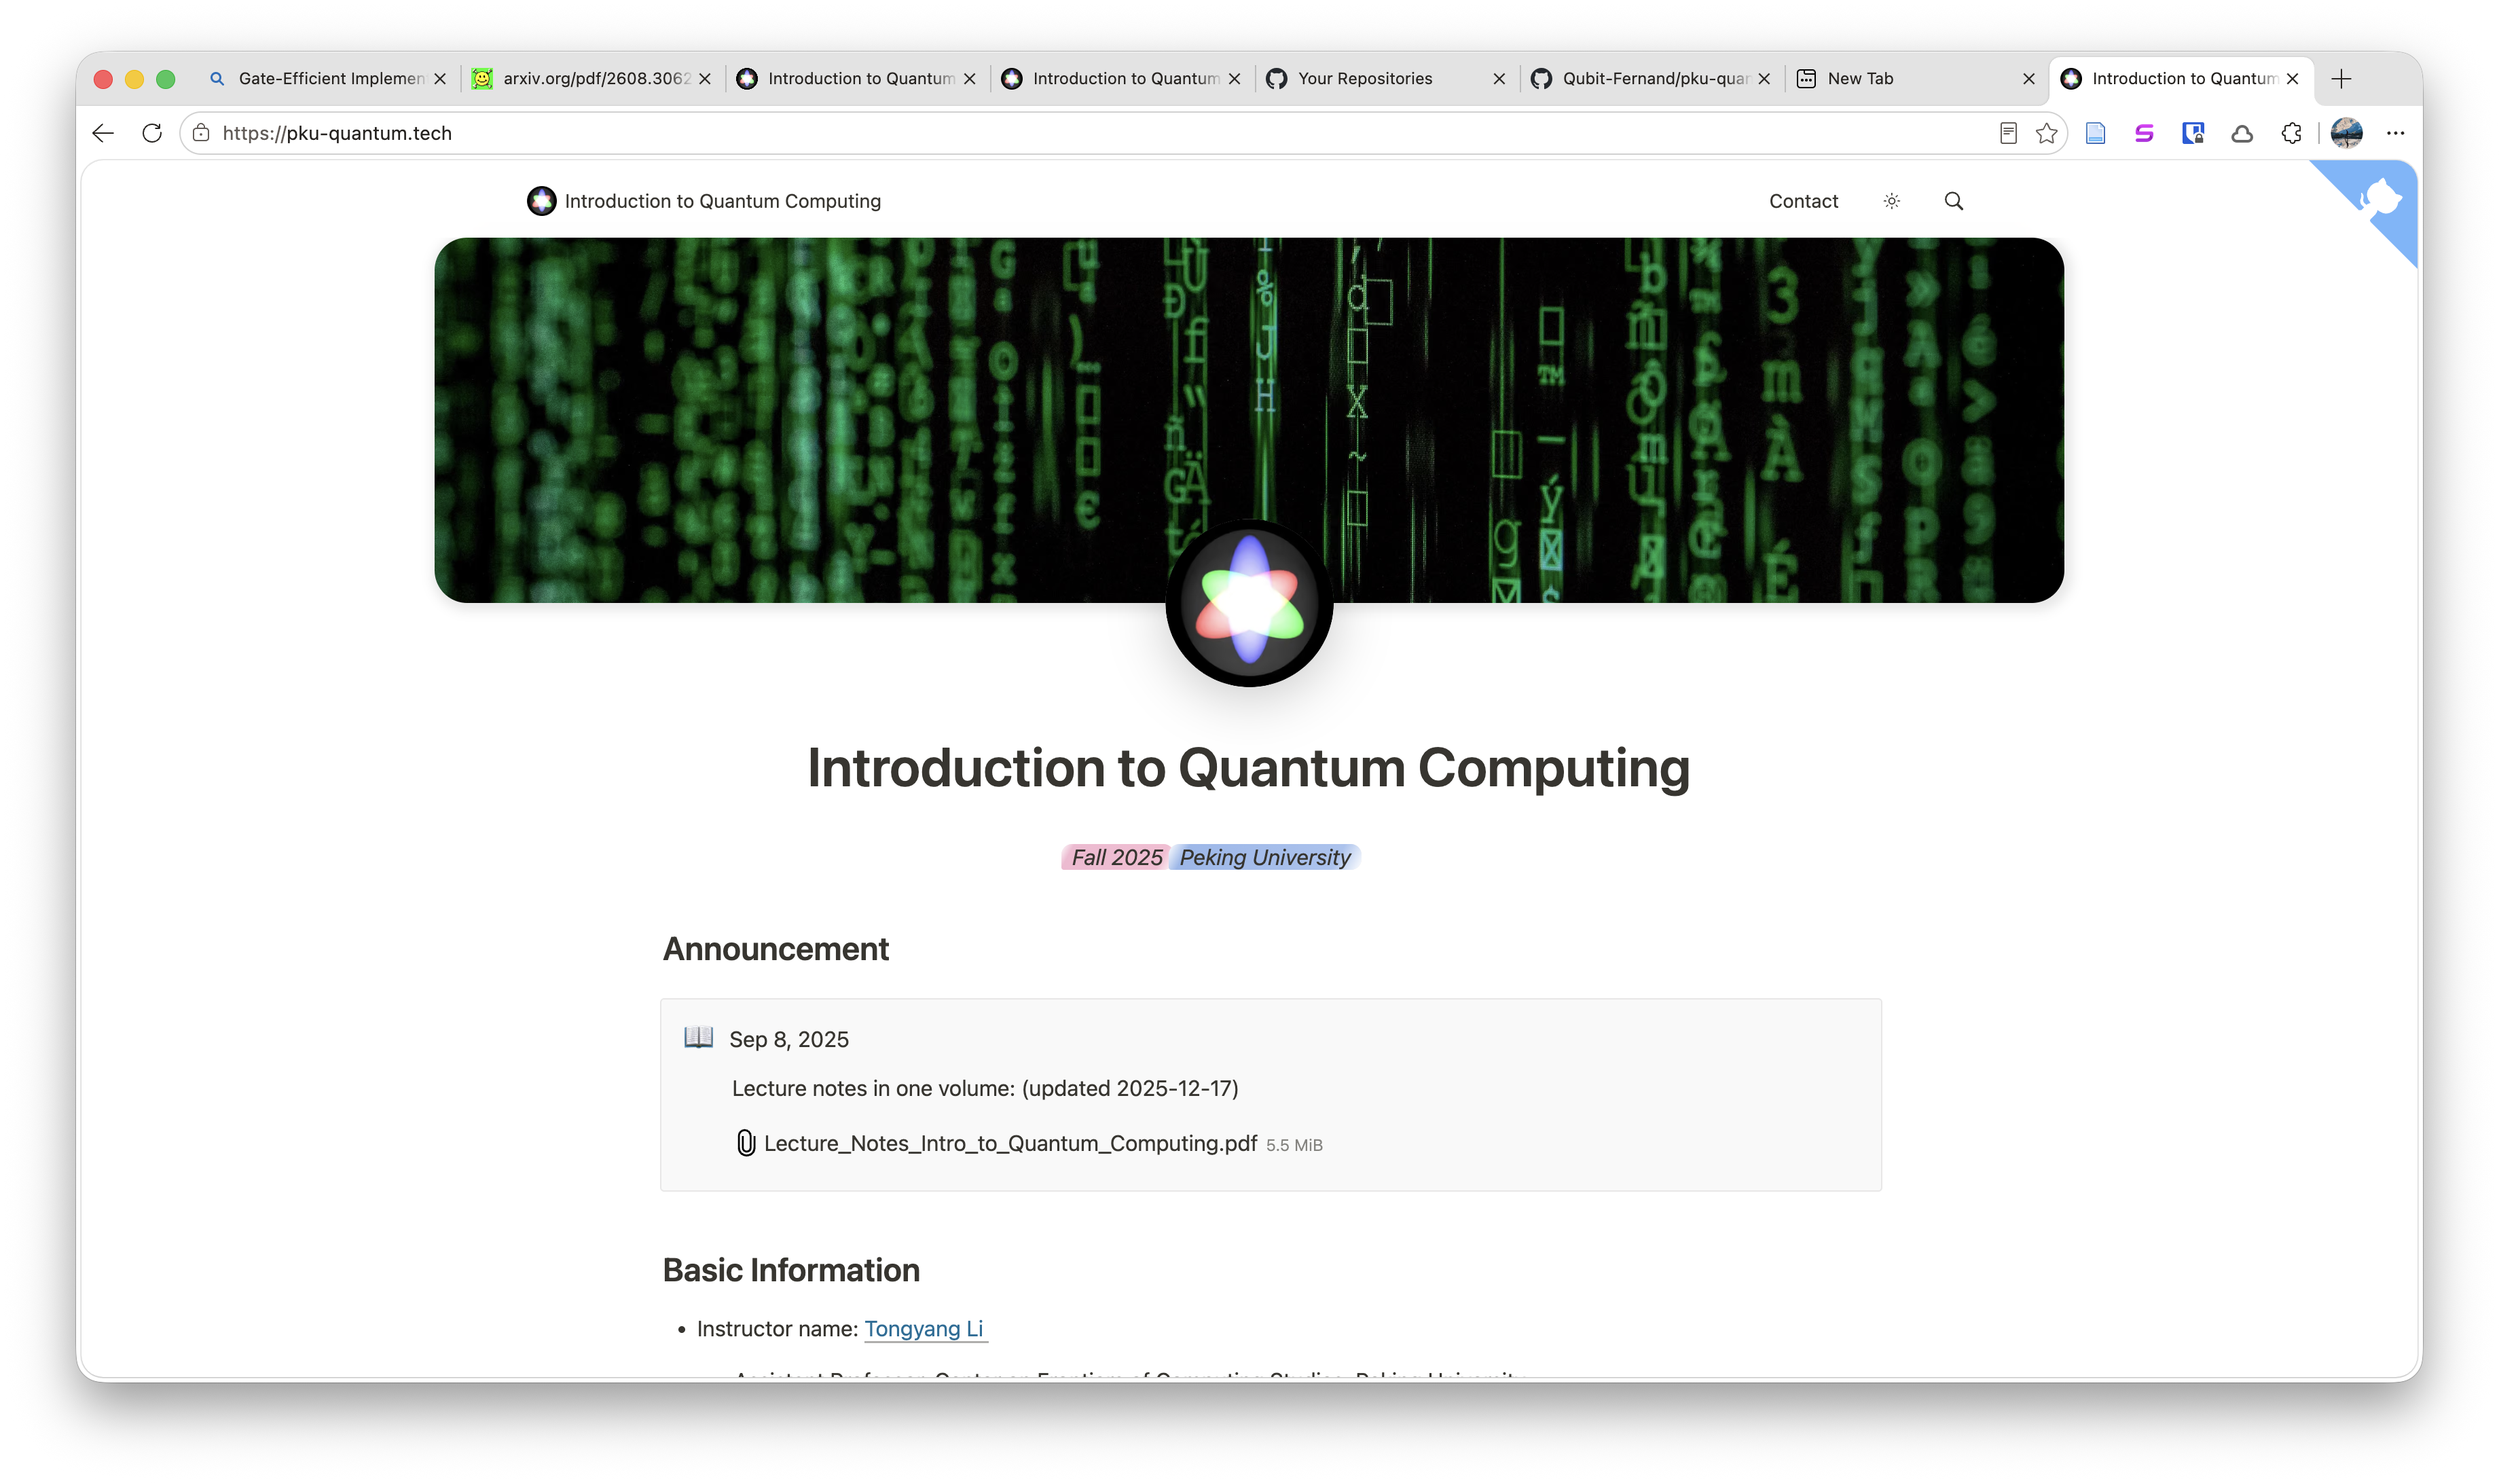
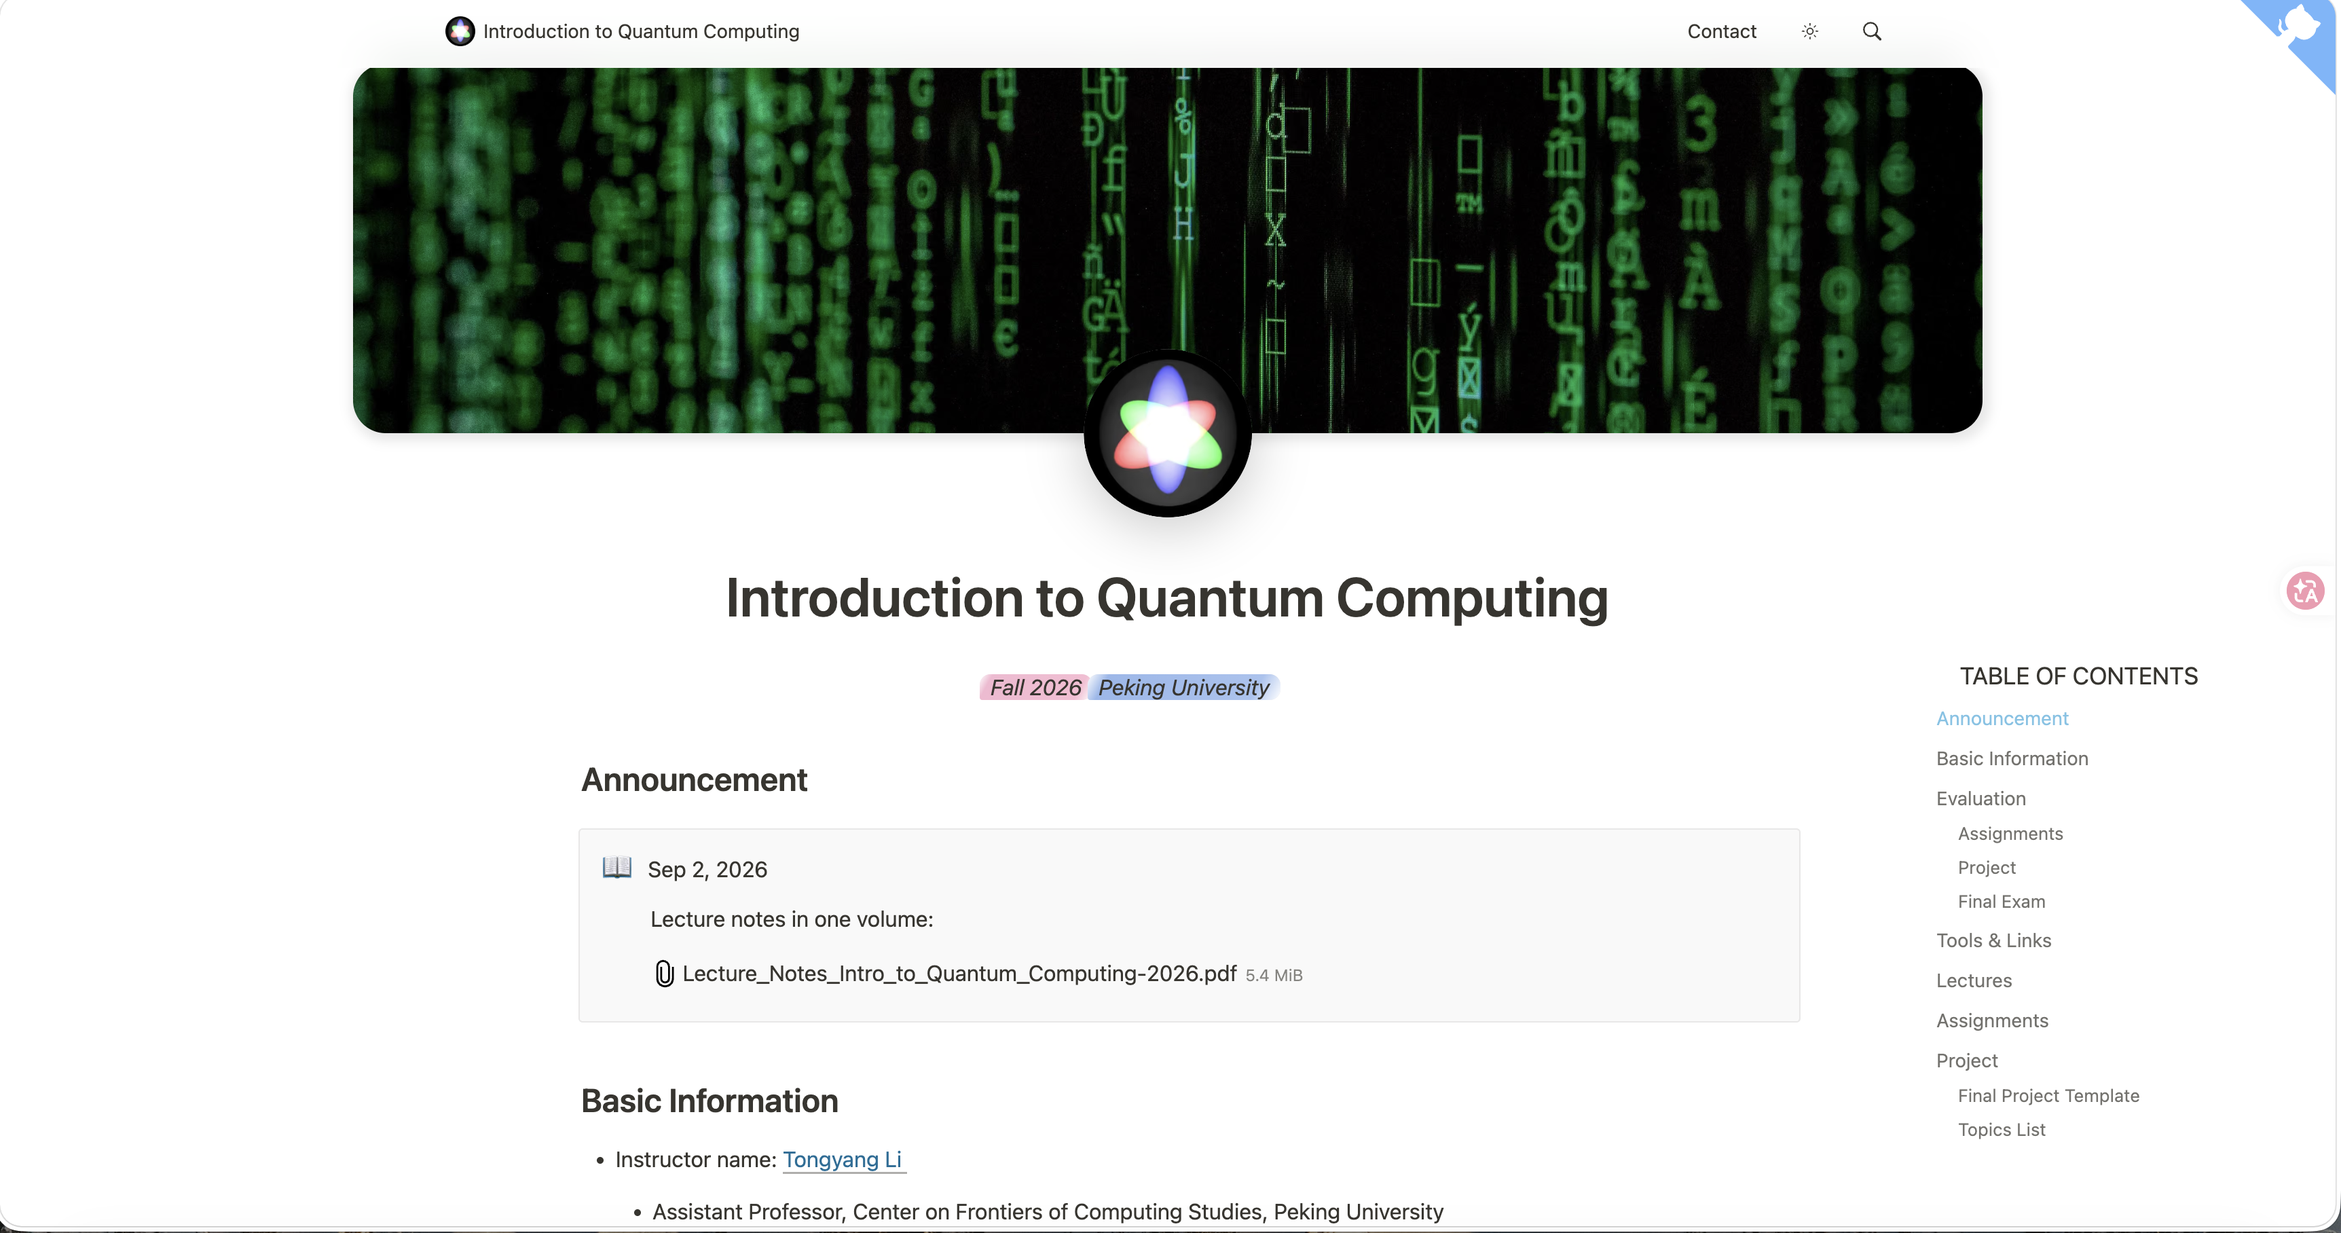
docs: update readme preview and archive links

diff --git a/readme.md b/readme.md
@@ -14,6 +14,13 @@ the course homepage at <https://pku-quantum.tech>.
 Branches named `20xx` are connected to private Notion pages and are used to
 archive historical course records.
 
+Archive deployments:
+
+- [Quantum Computing 2025](https://pku-quantum-2025.vercel.app/)
+- [Quantum Computing 2024](https://pku-quantum-2024.vercel.app/)
+- [Quantum Computing 2023](https://pku-quantum-2023.vercel.app/)
+- [Quantum Computing 2022](https://pku-quantum-2022.vercel.app/)
+
 ## Upstream
 
 Forked from
